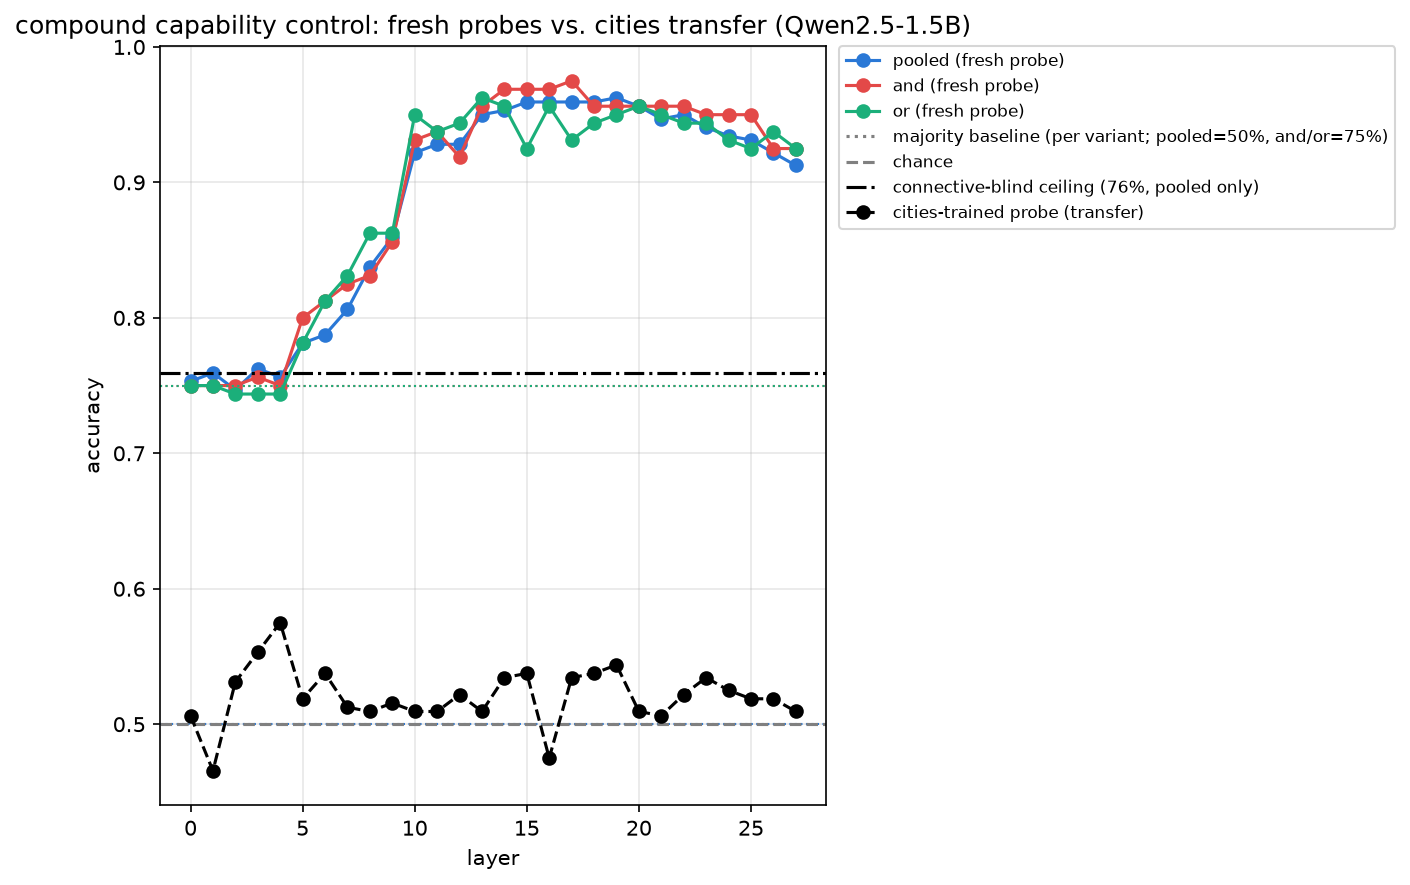
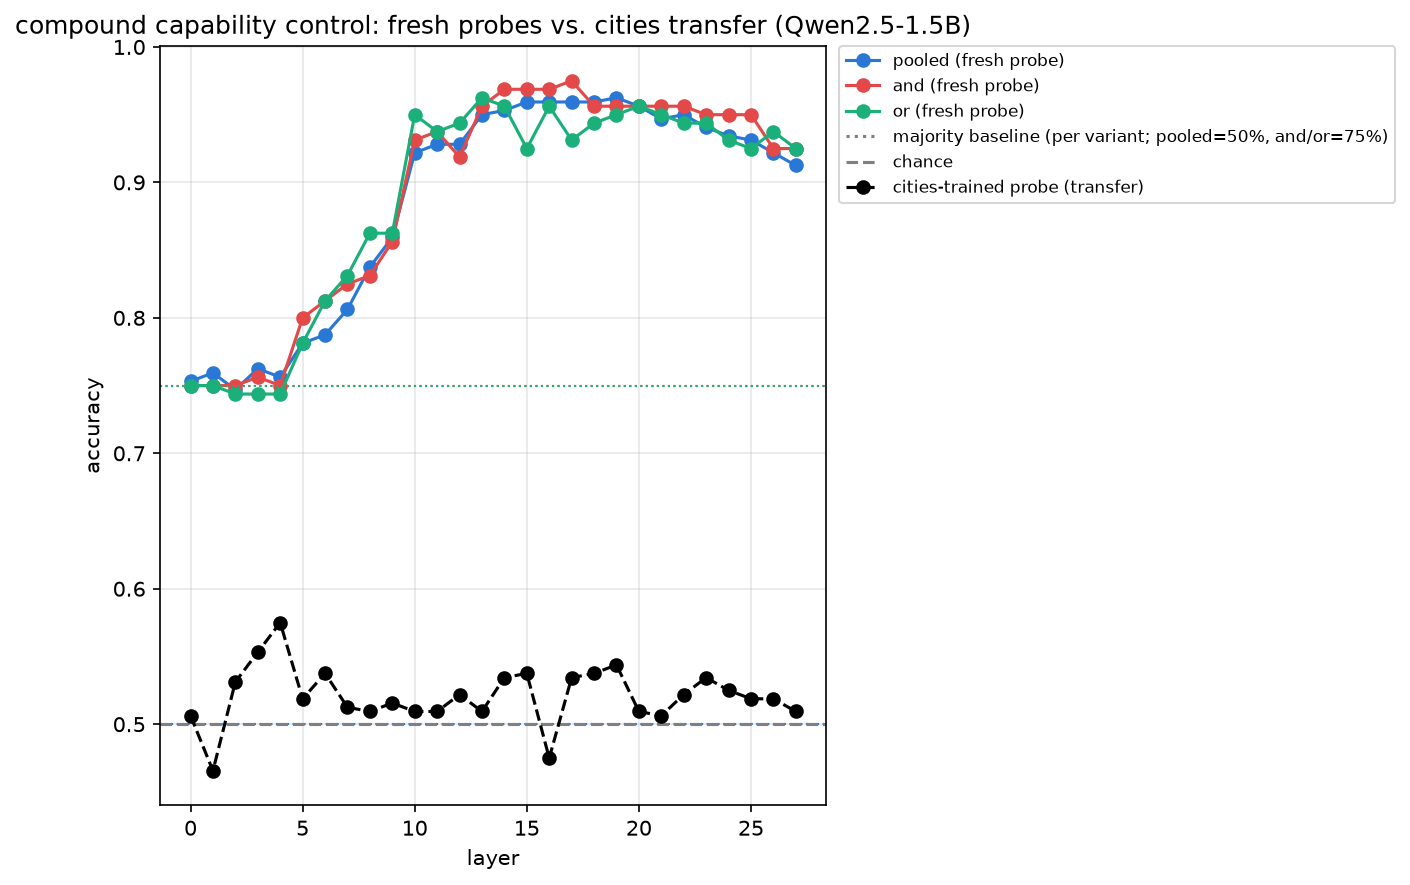
Remove confusable connective-blind-ceiling line from capability-control plot
The ~76% connective-blind ceiling and 75% majority-baseline lines sat under a point apart, reading as one merged line at this plot's scale. Dropped the ceiling line (still computed/printed) rather than label both, per request.

Changed region(s): [[0.5929, 0.1831, 0.905, 0.2746]]

diff --git a/scripts/07_capability_control.py b/scripts/07_capability_control.py
@@ -143,10 +143,9 @@ for name, color in VARIANT_COLORS.items():
     plt.axhline(THEORETICAL_MAJORITY_BASELINE[name], color=color, linestyle=":", linewidth=1)
 plt.plot([], [], color="gray", linestyle=":", label="majority baseline (per variant; pooled=50%, and/or=75%)")
 plt.axhline(0.5, color="gray", linestyle="--", label="chance")
-plt.axhline(
-    connective_blind_ceiling, color="black", linestyle="-.", linewidth=1.5,
-    label=f"connective-blind ceiling ({connective_blind_ceiling:.0%}, pooled only)",
-)
+# connective-blind ceiling (computed/printed above) deliberately not plotted:
+# at ~76% it sits under a point above the 75% majority baseline, reading as
+# a single merged line at this scale rather than two distinct ones
 plt.plot(list(layers), cities_acc_by_layer, color="black", linestyle="--", marker="o", label="cities-trained probe (transfer)")
 plt.xlabel("layer")
 plt.ylabel("accuracy")
